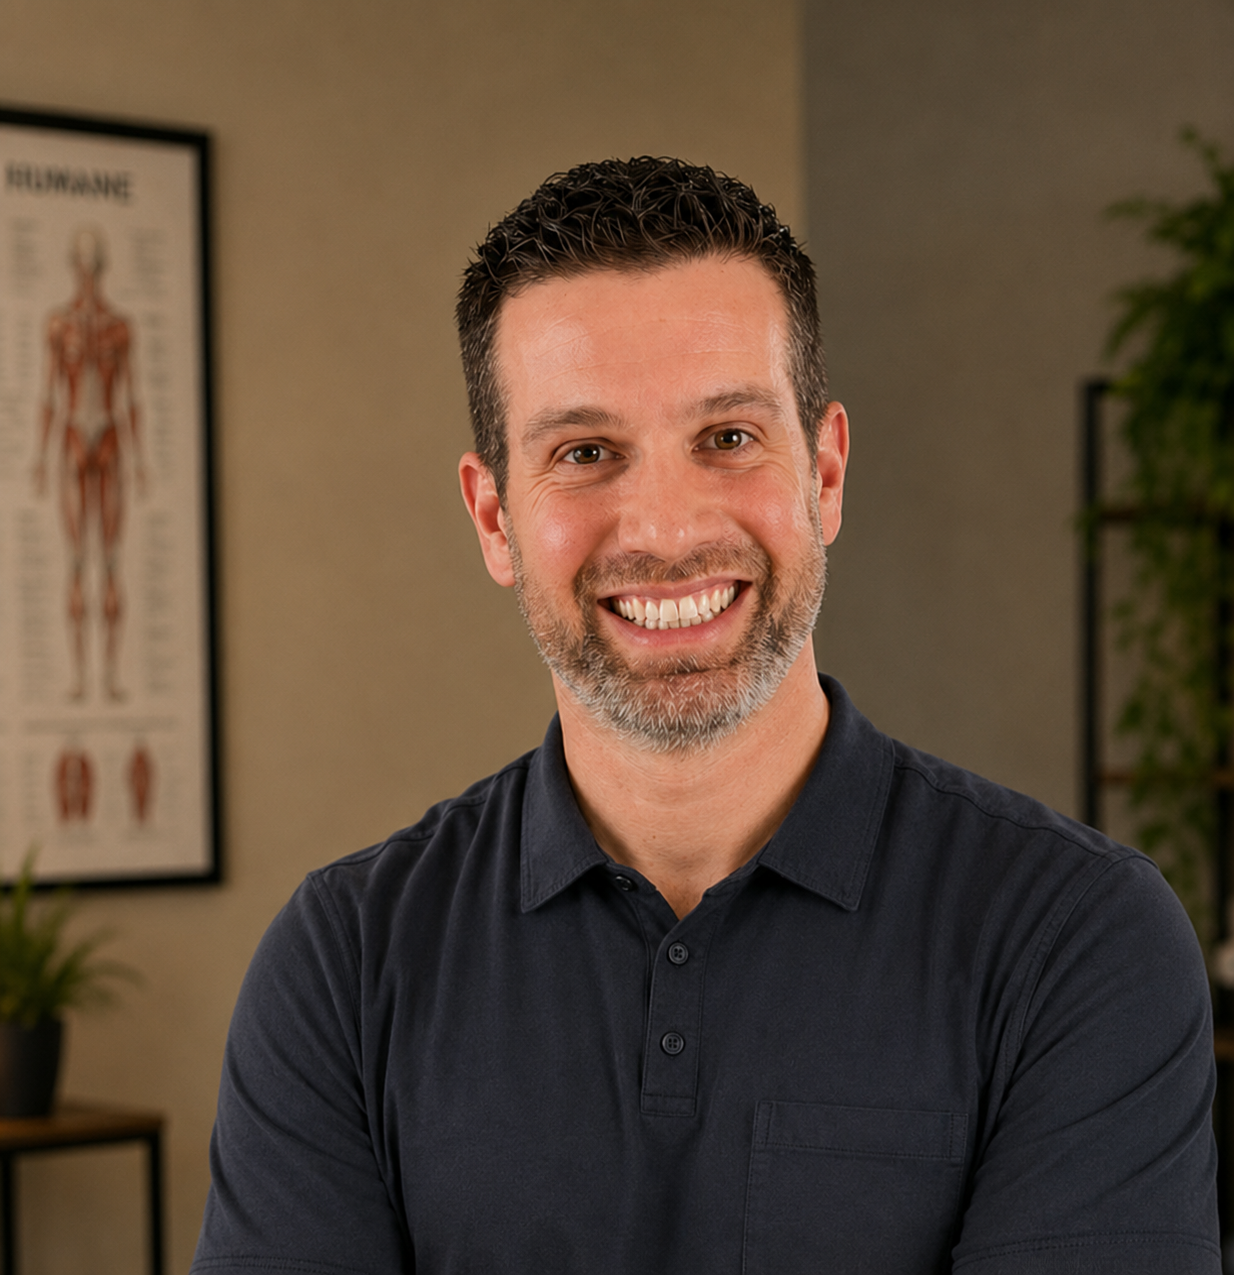
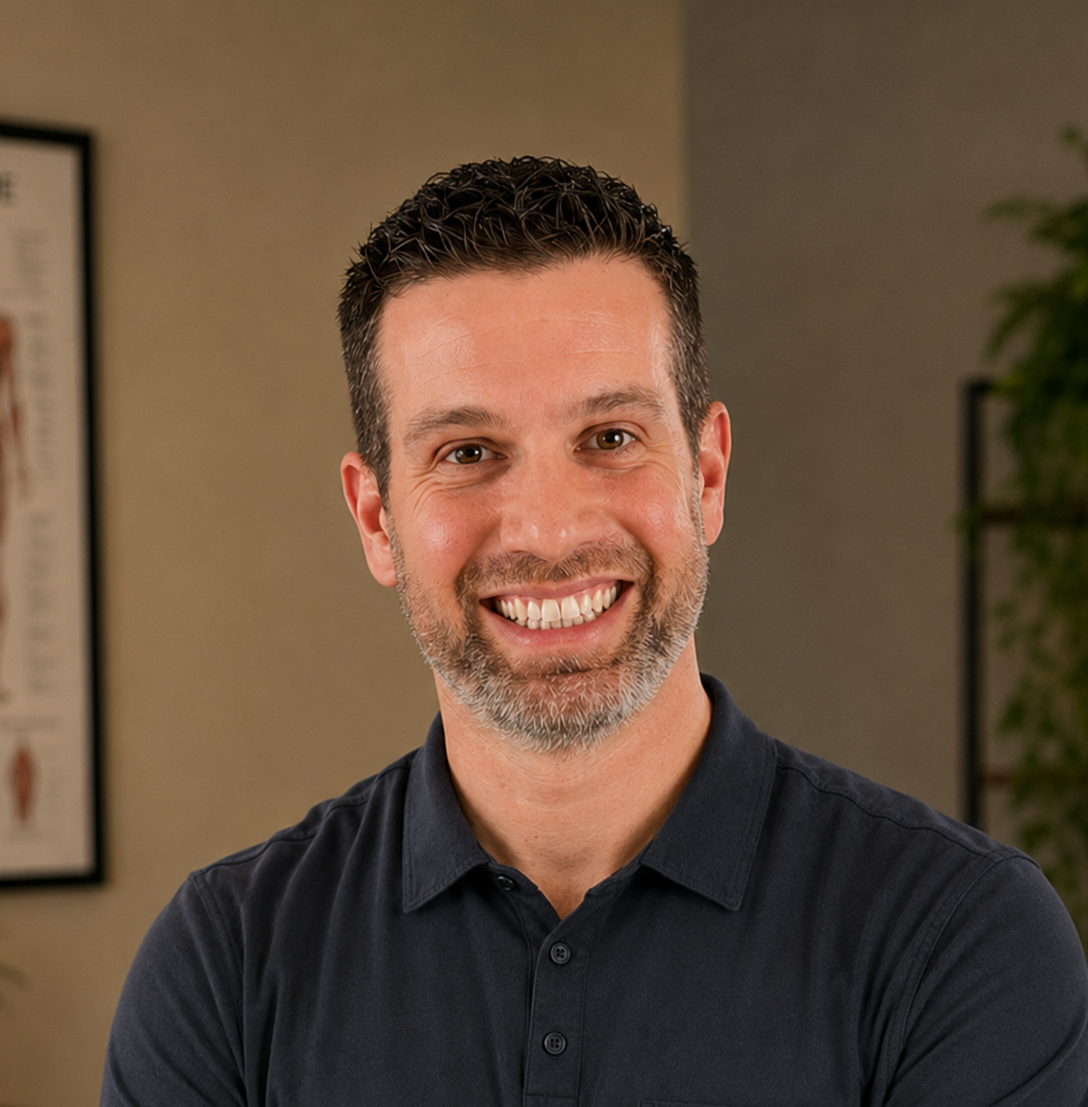
v1

diff --git a/index.html b/index.html
@@ -243,30 +243,10 @@
   </main>
 
   <footer class="site-footer">
-    <div class="shell footer__top">
-      <a class="brand brand--footer" href="#accueil" aria-label="Retour à l'accueil">
-        <img class="brand__logo" src="assets/hd8.png" alt="" width="3000" height="1400" loading="lazy">
-      </a>
-      <div class="footer__contact">
-        <address>383 Rue Lafontaine · Rivière-du-Loup, Québec · G5R 3B5</address>
-        <a
-          class="facebook-link facebook-link--footer"
-          href="https://www.facebook.com/profile.php?id=61590661964266"
-          target="_blank"
-          rel="noopener noreferrer"
-        >
-          <span class="facebook-link__icon" aria-hidden="true">f</span>
-          Suivez Michael sur Facebook
-        </a>
-      </div>
-    </div>
 
     <div class="shell footer__bottom">
       <p>© <span data-year>2026</span> Massothérapie Michael Picard</p>
-      <nav aria-label="Navigation du pied de page">
-        <a href="#michael">Michael</a>
-        <a href="#acces">Nous trouver</a>
-      </nav>
+      <address>383 Rue Lafontaine · Rivière-du-Loup, Québec · G5R 3B5</address>
     </div>
   </footer>
 